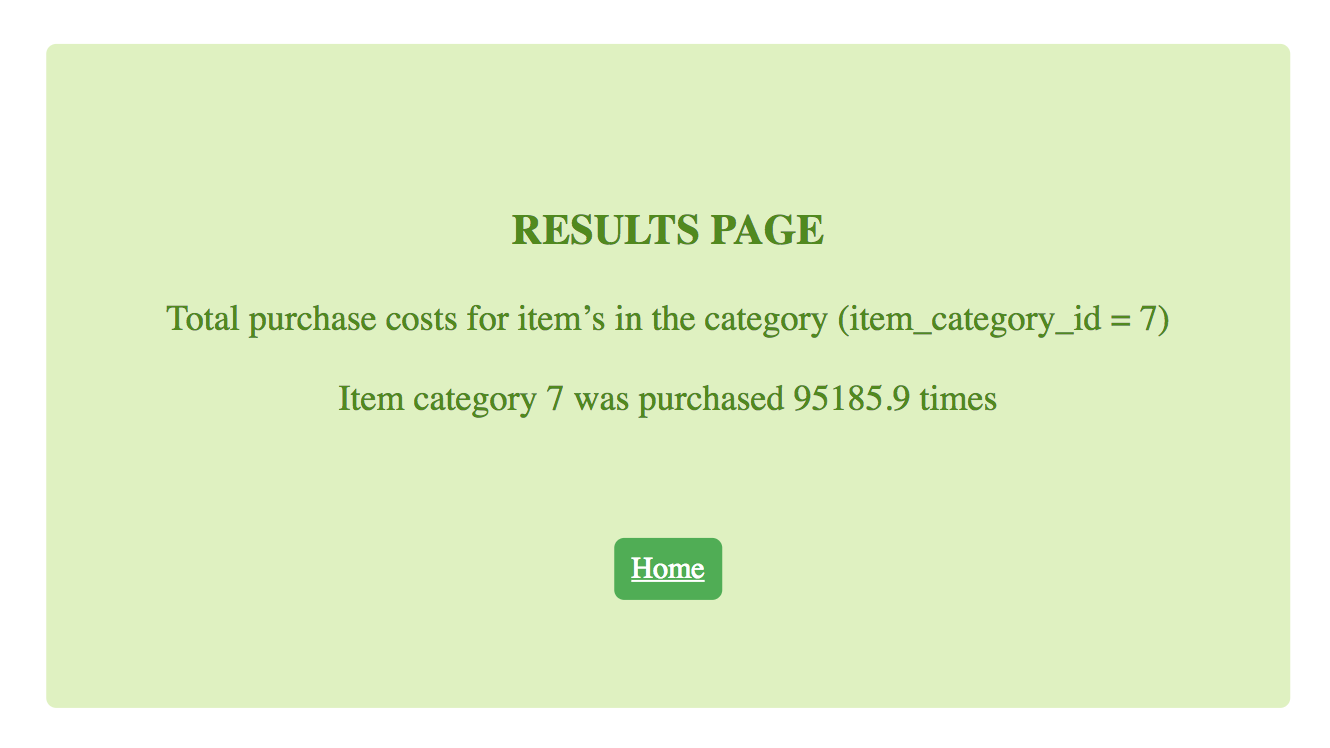
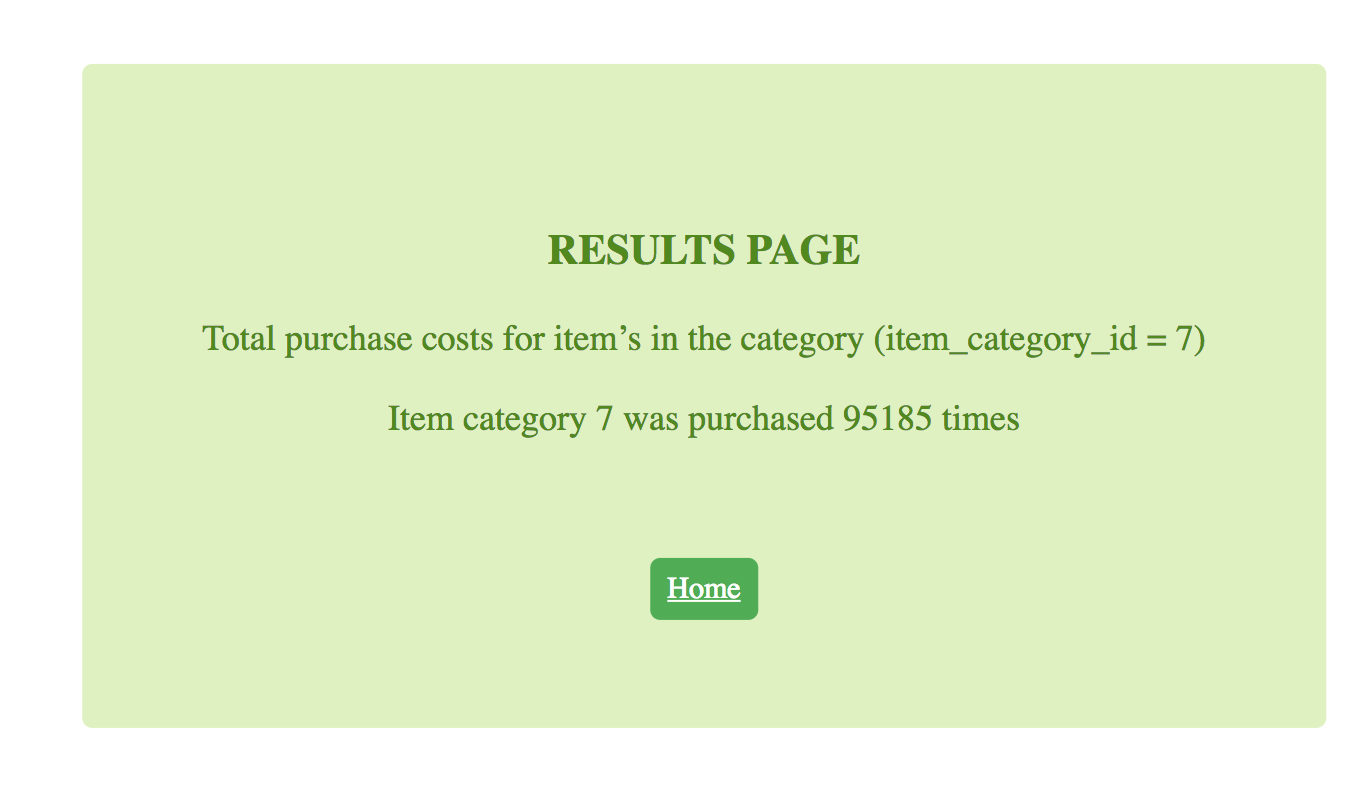
small change .floor to .trunc to remove decimal in case_3

diff --git a/routes/itemCategory.js b/routes/itemCategory.js
@@ -23,7 +23,7 @@ module.exports = () => {
         }
 
         let category_frequency = item_category.reduce(helpers.add, 0)
-        category_frequency = Math.floor(category_frequency * 100) / 100
+        category_frequency = Math.trunc(category_frequency)
         const templateVars = {
           data: category_frequency
         }

diff --git a/README.md b/README.md
@@ -33,4 +33,4 @@ The main challenge I faced in this project was the volume of data I had to tackl
 The overall challenge got progressively easier as I became more familiar with the data-sets. I focused on making sure I was producing modular and re-usable code. There were moments where I could have applied the map() method or more advanced looping structures but I chose to keep it simple and stick with the basic for loop. I found that using the basic 'for loop', I was able to visualise the structure to the data much more easily.
 
 ### Bugs
-There is one bug in the United States query. If you relocate away from the page and return, the array cache with prior data does not clear. This means that the value of US purchase costs will keep doubling if you continue to re-render the page. I would ask that you take the very first instance of the value as my final answer.
+There is one bug in the United States query. If you relocate away from the page and return, the array cache with prior data does not clear. This means that the value of US purchase costs will keep doubling if you continue to re-render the page. I would ask that you take the very first instance of the value as my final solution.
